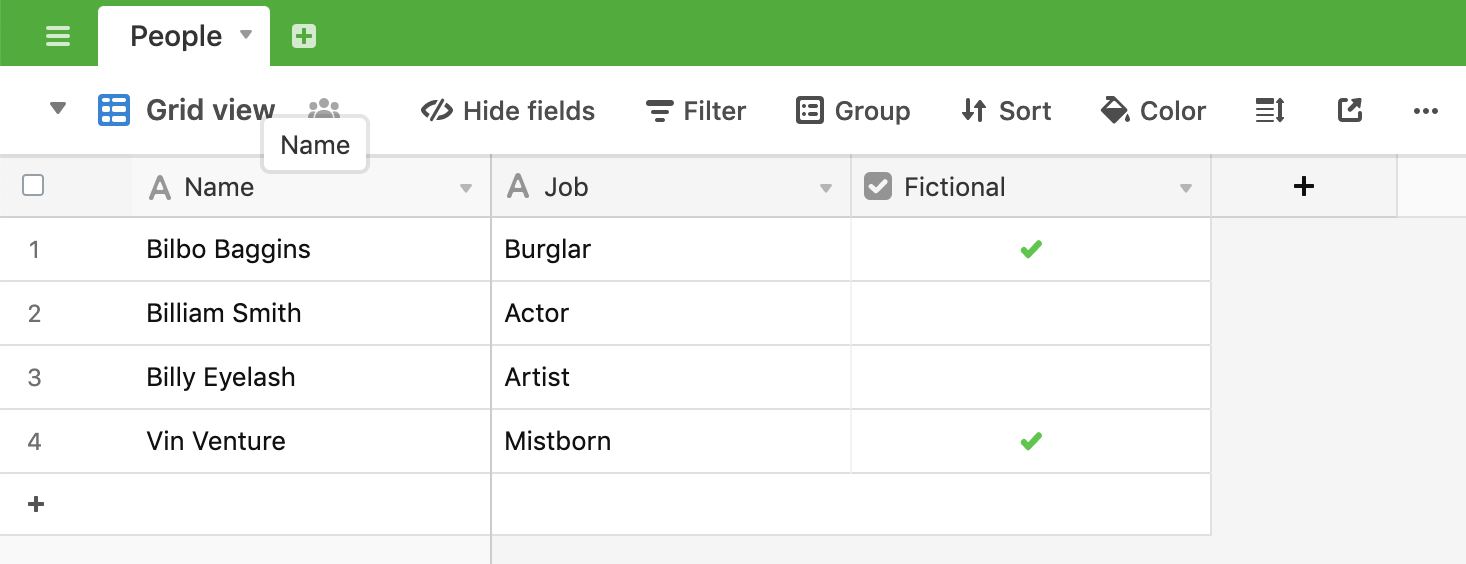
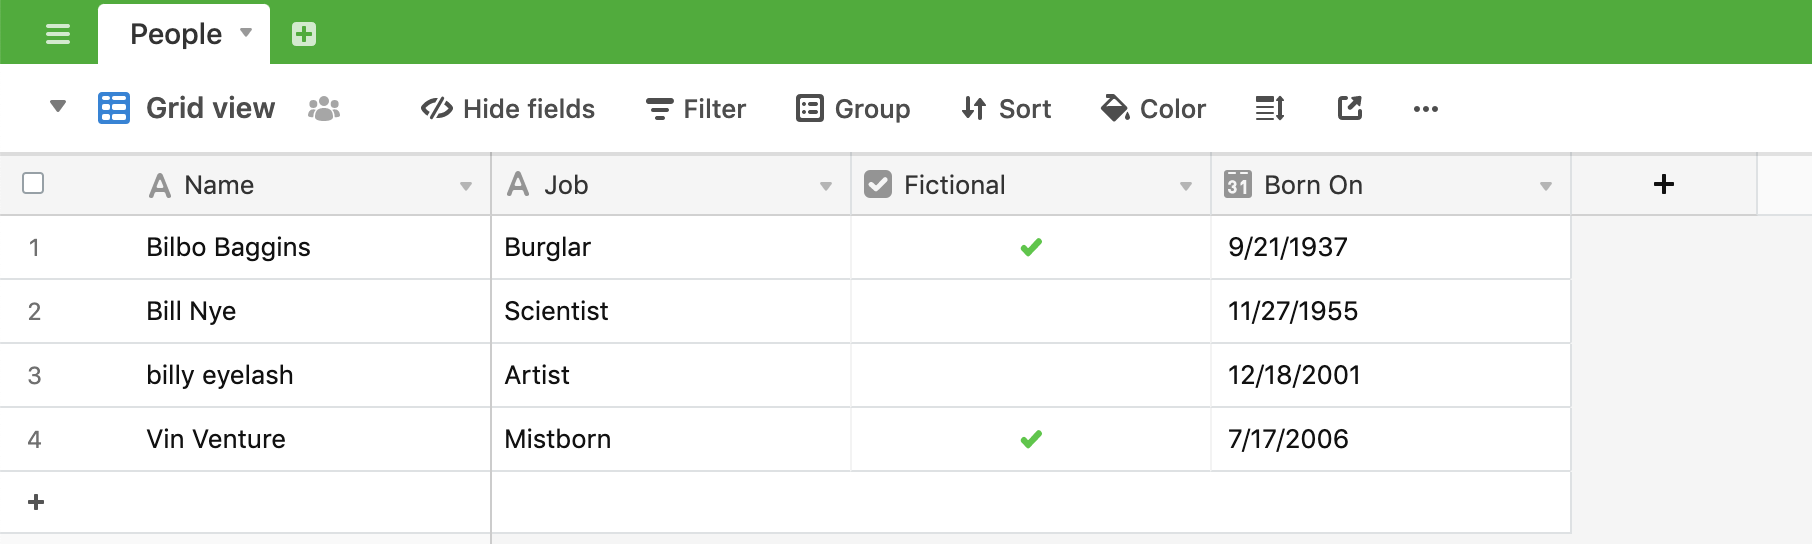
Use concrete query examples

Changed region(s): [[0.0, 0.1562, 1.0, 1.0], [0.0307, 0.0, 0.2149, 0.125], [0.8595, 0.1562, 0.9823, 0.2188]]

diff --git a/functions/date_gt.js b/functions/date_gt.js
@@ -1,0 +1,20 @@
+const lib = require('lib')({token: process.env.STDLIB_SECRET_TOKEN});
+
+/**
+* An example of an HTTP endpoint that queries Airtable using a KeyQL date_gt parameter
+* @returns {array} result Your return value
+*/
+module.exports = async () => {
+
+  let queryResult = await lib.airtable.query['@0.5.3'].select({
+    table: 'People',
+    where: [{
+      'Born On__date_gt': '2000-01-01'
+    }]
+  });
+
+  return queryResult.rows.map((row) => {
+    return row.fields;
+  });
+
+};

diff --git a/functions/istartswith.js b/functions/istartswith.js
@@ -1,0 +1,20 @@
+const lib = require('lib')({token: process.env.STDLIB_SECRET_TOKEN});
+
+/**
+* An example of an HTTP endpoint that queries Airtable using a KeyQL istartswith parameter
+* @returns {array} result Your return value
+*/
+module.exports = async () => {
+
+  let queryResult = await lib.airtable.query['@0.5.3'].select({
+    table: 'People',
+    where: [{
+      'Name__istartswith': 'bil'
+    }]
+  });
+
+  return queryResult.rows.map((row) => {
+    return row.fields;
+  });
+
+};

diff --git a/functions/contains.js b/functions/contains.js
@@ -1,0 +1,20 @@
+const lib = require('lib')({token: process.env.STDLIB_SECRET_TOKEN});
+
+/**
+* An example of an HTTP endpoint that queries Airtable using a KeyQL contains parameter
+* @returns {array} result Your return value
+*/
+module.exports = async () => {
+
+  let queryResult = await lib.airtable.query['@0.5.3'].select({
+    table: 'People',
+    where: [{
+      'Job__contains': 'ist'
+    }]
+  });
+
+  return queryResult.rows.map((row) => {
+    return row.fields;
+  });
+
+};

diff --git a/README.md b/README.md
@@ -1,123 +1,95 @@
-# Airtable Base Query Example
+# Airtable Query Examples
 
-## Deploy Now
+## Project Overview
 
 [<img src="https://deploy.stdlib.com/static/images/deploy.svg?" width="192">](https://deploy.stdlib.com/)
 
-This project contains an endpoint that queries data from an Airtable base as an authless API. It wraps the [airtable.query.select](https://autocode.com/stdlib/airtable/query/#select) API and makes the data available for frontend calls. You can deploy this API in just a few clicks onto Autocode by clicking the button above and linking your desired Airtable base.
-
-This behavior is completely customizable –– everything is code that you can edit and redeploy. The only things you'll need are an Autocode account and an Airtable base!
-
-## Making Queries
-
-Your endpoint will be accessible via HTTP. You can make calls to it via the [lib-js](https://github.com/stdlib/lib-js) frontend package, or directly to the URL using `fetch` or whatever HTTP client you prefer.
-
-Given an Airtable base with the following content:
+This project contains example endpoints that query data from an Airtable base. It uses the [airtable.query.select](https://autocode.com/stdlib/airtable/query/#select) API from Autocode's Standard Library. You can deploy your own working version of this project in just a few clicks with Autocode. Click the button above to open this project in Autocode, and create a copy of the sample base on your own Airtable account by clicking this link: https://airtable.com/addBaseFromShare/shrcOc6fZARviMGeK.
 
 ![](./images/base-contents.png)
 
-Here are some examples and results of querying your base via this endpoint:
+The endpoints and queries are completely customizable –– everything is code that you can edit and test using the Autocode editor.
 
-Via `lib-js`:
+## Endpoints
+
+These endpoints are accessible via HTTP. You can make calls to them via the [lib-js](https://github.com/stdlib/lib-js) frontend package, or directly to the URL using `fetch` or whatever HTTP client you prefer.
+
+These endpoints use [KeyQL query](https://github.com/FunctionScript/KeyQL) to make queries. See the KeyQL Github repo for the spec and more examples: https://github.com/FunctionScript/KeyQL
+
+### functions/contains.js
+
+This endpoint is an example of a `contains` KeyQL query. It looks for rows in the linked Airtable base where the `Job` field contains the substring, `ist`. From the sample base, it returns:
+
 ```
-lib.username['airtable-query-base']['@dev']({
-  table: 'People',
-  where: [{
-    Name__startswith: 'Bil'
-  }]
-}, (err, data) => {
-  if (err) {
-    // Handle error
+[
+  {
+    "Job": "Mistborn",
+    "Born On": "2006-07-17",
+    "Fictional": true,
+    "Name": "Vin Venture"
+  },
+  {
+    "Job": "Scientist",
+    "Born On": "1955-11-27",
+    "Name": "Bill Nye",
+    "Fictional": null
+  },
+  {
+    "Job": "Artist",
+    "Born On": "2001-12-18",
+    "Name": "billy eyelash",
+    "Fictional": null
   }
-  console.log(data);
-  /*
-    Logs:
-    [{
-      Name: 'Bilbo Baggins',
-      Job: 'Burglar',
-      Fictional: true
-    }, {
-      Name: 'Billiam Smith',
-      Job: 'Actor',
-      Fictional: null
-    }, {
-      Name: 'Billy Eyelash',
-      Job: 'Artist',
-      Fictional: null
-    }]
-  */
-});
+]
 ```
 
-Via `fetch`:
+### functions/date__gt.js
+
+This endpoint is an example of a `date__gt` KeyQL query. It looks for rows in the linked Airtable base where the `Born On` field is after `2000-01-01`. From the sample base, it returns:
+
 ```
-async function fetchData () {
-  // You must provide the trailing slash in the URL
-  let response = await fetch('https://username.api.stdlib.com/airtable-query-base@dev/', {
-    method: 'POST',
-    headers: {
-      'Content-Type': 'application/json'
-    },
-    body: JSON.stringify({
-      table: 'People',
-      where: [{
-        Job__contains: 'ist'
-      }]
-    })
-  });
-  return response.json();
-  /*
-    Returns:
-    [{
-      Name: 'Billy Eyelash',
-      Job: 'Artist',
-      Fictional: null
-    }, {
-      Name: 'Vin Venture',
-      Job: 'Mistborn',
-      Fictional: true
-    }]
-  */
-}
+[
+  {
+    "Job": "Mistborn",
+    "Born On": "2006-07-17",
+    "Fictional": true,
+    "Name": "Vin Venture"
+  },
+  {
+    "Job": "Artist",
+    "Born On": "2001-12-18",
+    "Name": "billy eyelash",
+    "Fictional": null
+  }
+]
 ```
 
-The endpoint accepts [KeyQL query and limit parameters](https://github.com/FunctionScript/KeyQL) to make queries. See here for the spec and more examples: https://github.com/FunctionScript/KeyQL
+### functions/istartswith.js
 
-## Deployment Instructions
+This endpoint is an example of a `istartswith` KeyQL query. It looks for rows in the linked Airtable base where the `Name` field starts with the string `bil`, case insensitive. From the sample base, it returns:
 
-### Linking Your Airtable Base
-
-Deploying your API is easy! Start by clicking the button below:
-
-[<img src="https://deploy.stdlib.com/static/images/deploy.svg?" width="192">](https://deploy.stdlib.com/)
-
-You'll be asked to log in and choose a name for your project. Do so, and the project editor will open. Open `functions/__main__.js`, and you'll see a bouncing red button on the bottom of your screen.
-
-![](./images/editor-screen.png)
-
-Press it and you'll see the Identity Management modal appear, showing which accounts your project requires. You should see Airtable in this list. Press the **Link** button in the Airtable row.
-
-![](./images/identity-management.png)
-
-Follow the instructions to link your Airtable account. On the next screen, you should see a list of bases your account has access to. Select the specific base you'd like to use.
-
-### Testing Your API
-
-You're now ready to deploy, but if you'd like, you can try different parameter values so that you can confirm your API will retrieve the correct data. To do so, press the **Edit Test Event Payload** button at the top of the editor.
-
-![](./images/test-payload-button.png)
-
-You can then enter a payload object. This must be valid JSON (double quotes required!). Here's an example:
-
-![](./images/test-payload-editor.png)
-
-Once you've got some parameters, press **Save Payload** to save the test payload for your project. Now you can hit the green **Run Test Event** button in the bottom right corner of your screen, and Autocode will run your code with the test payload you just set and show the response!
-
-![](./images/test-run.png)
-
-### Deploy
-
-If you've made any tweaks to your API, press the orange **Save** button in the bottom left corner of the editor. Finally, hit the blue **Deploy** button in the bottom right corner to push your project live. That's it, you're done!
+```
+[
+  {
+    "Job": "Scientist",
+    "Born On": "1955-11-27",
+    "Name": "Bill Nye",
+    "Fictional": null
+  },
+  {
+    "Job": "Artist",
+    "Born On": "2001-12-18",
+    "Name": "billy eyelash",
+    "Fictional": null
+  },
+  {
+    "Job": "Burglar",
+    "Born On": "1937-09-21",
+    "Fictional": true,
+    "Name": "Bilbo Baggins"
+  }
+]
+```
 
 ## Thank You!
 
